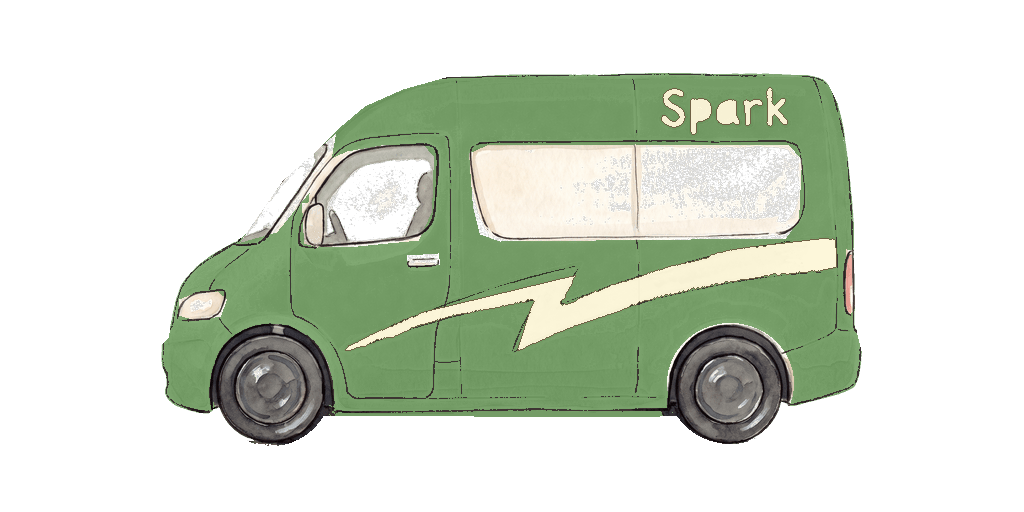
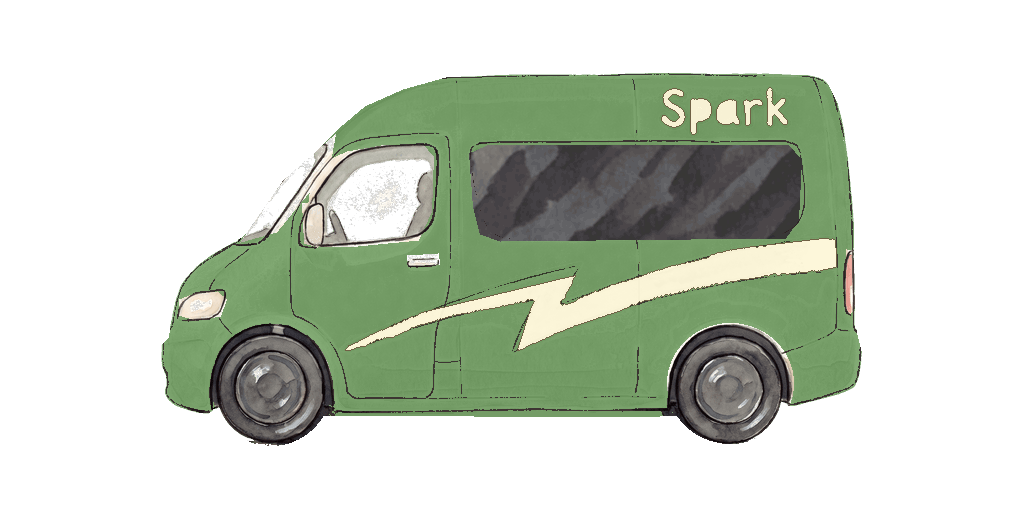
feat(art): glass-rears.py finishes the glass canon, and Spark's tinted portrait is installed
Canon section 4 says the animal space is tinted and the cab is clear. The
portrait and the fronts were brought to it and two rears were left, because the
rears are the camera reference and redraw-fronts.py did not want to alter one in
passing. Glass is not the camera, so they are done now, and nothing moves but
the glass.

Henry's rear doors had two clear teal windows, which are animal space. They are
Spark's rear window now: a cut of it, the left pane from the left half and the
right pane from the right, so the two doors do not carry one reflection twice
(mean colour 74,76,77 against the canon's 69,71,71, none brighter than the
canon's own 140). Spark's rear had a dark windscreen slot at its far end, which
is the cab, so his two ends disagreed; it is clear glass by the function that
cleared his front's windscreen, and the two windscreens are 10 RGB units apart.
Spark's rear window at the other end is the pixels it was.

Both files are 256-colour palettes and Spark's has no pale blue-grey, so
tools/glass-rears.py makes room the way decorate-roof.py does (grow_palette):
near-duplicate shades are merged into their neighbours and the freed slots take
the glass's own colours (16 for Henry's tint, 12 for Spark's glass). Alpha is
byte-identical in both files, the canvases are the same, the box round Henry's
paw-heart differs by 0 pixels and Spark's rear window by 0. Outside the glass 7
pixels on Henry (at most 13 of 255) and 83 on Spark (at most 18) change colour
[…]

Changed region(s): [[0.4375, 0.2812, 0.7812, 0.4688]]

diff --git a/tools/glass-rears.py b/tools/glass-rears.py
@@ -1,0 +1,318 @@
+#!/usr/bin/env python3
+"""glass-rears.py — finish the glass canon on the two rear top-downs: Henry's rear doors tinted, Spark's far windscreen clear.
+
+    python3 tools/glass-rears.py --out /tmp/rears                # both, gated, written to /tmp/rears
+    python3 tools/glass-rears.py --out /tmp/rears --install      # and install each file that passes its gates
+
+Nothing is installed unless `--install` is given. The rears are read from git (`SOURCE_REV`, the commit
+that installed the shortened top-downs), so a second run after installing starts from the originals and
+writes the same bytes. Run it after `redraw-fronts.py --install`: one of its gates compares Spark's two
+windscreens, and the front is read from the installed file.
+
+WHY. `docs/fleet-canon.md` section 4: the animal space is tinted and the cab is clear. `tint-glass.py` and
+`redraw-fronts.py` brought the portraits and the fronts to it and left the two rears alone, because the
+rears are the camera reference (section 3) and a reference is not edited in passing. Glass is not the
+camera: nothing here moves a pixel of the silhouette, and Marcus has approved the section. Two rears
+still disagreed with it, and two of the children's three views of each van disagreed with the third:
+
+    vehicle-topdown-henry-rear   two CLEAR teal windows in the rear doors. That is animal space.
+    vehicle-topdown-spark-rear   a DARK windscreen slot at its far end. That is the cab, which his new front
+                                 draws clear, so his two ends disagreed.
+
+HENRY. The two panes (the teal pieces inside the ink of each window, holes filled) are filled with Spark's
+rear window, which is the one treatment the canon defines: smoked charcoal, neutral, fully opaque, base RGB
+(53, 55, 54) with the diagonal sheen streaks rising to about (102, 102, 103). It is not matched to those
+numbers, it is those pixels: `tint-glass.py` cut a piece of that glass for Spark's portrait and so does
+this, the left pane from the left of it and the right pane from the right, so the two doors do not carry
+one reflection twice. The ink round each window, the door seam and the paw-heart below are not touched.
+
+SPARK. The slot is the one dark piece of the far end, with its ink line and the soft edge of it left as
+drawn, and it is mapped to clear glass by `redraw-fronts.lighten_glass`, the function that cleared his
+front's windscreen, so the two ends have one glass: the pale mottled blue-grey of the windscreens, 138,160,180
+to 196,210,220, with the streaks the generator drew. His rear window, at the other end, is the tinted one the
+canon wants and is not touched.
+
+THE PALETTE. These are 256-colour files and a pale blue-grey is not in Spark's. `decorate-roof.grow_palette`
+makes room in place (the repo's own method for this): the cheapest near-duplicate shades are merged into their
+neighbours and the slots they free take the new glass's colours. Every pixel keeps its alpha exactly, and every
+pixel outside the glass keeps its palette index; the few that had a merged shade (7 on Henry, 83 on Spark, none
+by more than 18 of 255) change by that much. Henry's paw-heart entries are locked so that nothing is merged out of
+them, and so are the shades of Spark's rear window.
+
+GATES, run on every file and `--install` installs nothing that fails:
+  alpha     the file's alpha is byte-identical to the original's: silhouette, width, length, fringe cannot move
+  canvas    the canvas, which `PtvDriveScene` scales by, is the same
+  outside   outside the glass at most 150 pixels change colour, by at most 24 of 255 (a merged near-duplicate)
+  paw       Henry: not one pixel differs in the box round the paw-heart
+  glass     Henry: both panes are the canon's tint (mean within 15 RGB units of (69,71,71), 95th percentile
+            of luma under 125, none brighter than 140, the reference's own) and no teal is left in them;
+            Spark: the slot is one piece of clear glass, as pale as the front's windscreen
+  agree     Spark: the rear's windscreen and the front's are the same glass (mean within 20 RGB units)
+  tail      Spark: the rear window at the other end is the pixels it was
+  livery    the four bands of the audit (0-6, 6-20, 35-55, 75-92% of painted height) within 60 RGB of maroon
+            (142,52,54) / leaf green (116,156,102)
+  file      mode P, <=256 colours, tight crop, opaque body (`install-vehicles.verify`)
+"""
+import argparse
+import importlib.util
+import io
+import os
+import subprocess
+import sys
+import tempfile
+
+import numpy as np
+from PIL import Image
+from scipy.ndimage import binary_dilation, binary_fill_holes, binary_opening, label
+
+ROOT = os.path.abspath(os.path.join(os.path.dirname(os.path.abspath(__file__)), '..'))
+ASSETS = os.path.join(ROOT, 'apps/game/public/assets/driving/topdown')
+ASSETS_REL = 'apps/game/public/assets/driving/topdown'
+SOURCE_REV = 'f4cc906'          # the commit that installed the shortened top-downs, as in redraw-fronts.py
+
+
+def _load_module(name, path):
+    spec = importlib.util.spec_from_file_location(name, path)
+    mod = importlib.util.module_from_spec(spec)
+    spec.loader.exec_module(mod)
+    return mod
+
+
+rf = _load_module('redraw_fronts', os.path.join(ROOT, 'tools', 'redraw-fronts.py'))
+tg = _load_module('tint_glass', os.path.join(ROOT, 'tools', 'tint-glass.py'))
+dr = _load_module('decorate_roof', os.path.join(ROOT, 'tools', 'decorate-roof.py'))
+iv, rc = rf.iv, rf.rc
+
+LIVERY = {'henry': (142, 52, 54), 'spark': (116, 156, 102)}
+LIVERY_MAX = 60
+LUMA = np.array([0.299, 0.587, 0.114])
+
+# Henry's windows: the box that holds both panes (x0, y0, x1, y1). The left pane is cut from the left half of the
+# reference glass and the right pane from the right half, so the two doors do not carry one reflection twice; in its
+# half each takes the piece whose colour is nearest the treatment's own (mean (69,71,71), 95th percentile of luma 106),
+# stepping `step` px, because a cut from the middle is all streak and a cut from an edge is none.
+HENRY = dict(box=(85, 800, 475, 935), min_pane=5000, step=4, p95=106.0)
+# Spark's far-end windscreen: the dark piece through the seed (x, y), found among the dark, un-green, opaque
+# pixels of the rows above `rows`, the way `redraw-fronts.glass_region` finds his front's. His rear window, at the
+# other end, is the rows `tail_rows`.
+SPARK = dict(seed=(320, 130), rows=(0, 400), tail_rows=(640, 860))
+GATE = dict(outside_px=150, outside_step=24, tint_dist=15.0, tint_p95=125, tint_max=140, agree=20.0)
+# The mean colour error the glass's own palette slots may have (`grow_palette` takes the fewest that meet it). The
+# repo's default is 6 of 255, which is made for a motif. The cut of the canon's glass that Henry's panes take has 15
+# distinct colours, so 0 gives it exactly, in 16 slots (it tries 4, 6, 8, 12, 16...); anything looser leaves some of the brighter streak pixels on the
+# nearest teal in the palette, which is a few hundred pixels of teal in a charcoal pane. Spark's clear glass is 12 slots
+# at 1.5 (mean error 0.2 of 255) and 16 at 0.25, which is 100 more pixels shifted in the body for an error already under one.
+PALETTE_ERR = {'henry': 0.0, 'spark': 1.5}
+
+
+# ---------------------------------------------------------------------------------- sources
+
+def load_rear(name):
+    blob = subprocess.run(['git', 'show', f'{SOURCE_REV}:{ASSETS_REL}/vehicle-topdown-{name}-rear.png'],
+                          cwd=ROOT, check=True, capture_output=True).stdout
+    im = Image.open(io.BytesIO(blob))
+    im.load()
+    return im, np.array(im.convert('RGBA'))
+
+
+def installed_rgba(stem):
+    return np.array(Image.open(os.path.join(ASSETS, stem + '.png')).convert('RGBA'))
+
+
+# ---------------------------------------------------------------------------------- Henry
+
+def henry_panes(rgba):
+    """The two window panes of Henry's rear doors, left then right: the teal pieces inside each window's ink
+    (anything greener than it is red, which the maroon and the ink are not), holes filled."""
+    r, g, a = [rgba[..., i].astype(int) for i in (0, 1, 3)]
+    x0, y0, x1, y1 = HENRY['box']
+    box = np.zeros(a.shape, bool)
+    box[y0:y1, x0:x1] = True
+    lab, n = label((g > r) & (a > 200) & box)
+    sizes = [int((lab == i).sum()) for i in range(1, n + 1)]
+    big = [i + 1 for i, s in enumerate(sizes) if s >= HENRY['min_pane']]
+    assert len(big) == 2, f'expected two panes of at least {HENRY["min_pane"]} px, found sizes {sorted(sizes)[-4:]}'
+    panes = [binary_fill_holes(lab == i) for i in big]
+    panes.sort(key=lambda m: int(np.nonzero(m)[1].min()))
+    return panes
+
+
+def tint_henry(rgba):
+    """New RGB for Henry's panes: pieces of Spark's rear window, the canon's one tint. -> (new rgba, mask)."""
+    ref = np.array(tg.load_git(tg.TOPDOWN_REL, tg.REFERENCE['stem']).convert('RGBA'))
+    r0, r1 = tg.REFERENCE['rows']
+    c0, c1 = tg.REFERENCE['cols']
+    cx = (c0 + c1) // 2
+    new = rgba.copy()
+    panes = henry_panes(rgba)
+    for pane, half in zip(panes, ((c0, cx), (cx, c1))):
+        ys, xs = np.nonzero(pane)
+        y0, y1, x0, x1 = ys.min(), ys.max() + 1, xs.min(), xs.max() + 1
+        h, w = y1 - y0, x1 - x0
+        m = pane[y0:y1, x0:x1]
+        assert h <= r1 - r0 and w <= half[1] - half[0], 'the pane is bigger than the glass it is cut from'
+        best = None
+        for ty in range(r0, r1 - h + 1, HENRY['step']):
+            for tx in range(half[0], half[1] - w + 1, HENRY['step']):
+                px = ref[ty:ty + h, tx:tx + w, :3][m].astype(float)
+                score = float(np.linalg.norm(px.mean(0) - tg.TINT_MEAN)) + 0.5 * abs(float(np.percentile(px @ LUMA, 95)) - HENRY['p95'])
+                score += 100.0 * int((px[:, 1] > px[:, 0] + 12).sum())      # a pixel of Spark's body at the edge of the glass
+                if best is None or score < best[0]:
+                    best = (score, ty, tx)
+        _, ty, tx = best
+        sub = new[y0:y1, x0:x1, :3]
+        sub[m] = ref[ty:ty + h, tx:tx + w, :3][m]
+    return new, panes[0] | panes[1]
+
+
+# ---------------------------------------------------------------------------------- Spark
+
+def spark_slot(rgba):
+    """The windscreen slot at Spark's far end: the dark, un-green, opaque piece through the seed, holes filled."""
+    r, g, a = [rgba[..., i].astype(int) for i in (0, 1, 3)]
+    luma = rgba[..., :3].astype(float) @ LUMA
+    dark = (luma < 135) & (g - r < 25) & (a > 200)
+    sel = np.zeros(dark.shape, bool)
+    sel[SPARK['rows'][0]:SPARK['rows'][1]] = True
+    lab, _ = label(binary_opening(dark & sel, structure=np.ones((3, 3))))
+    sx, sy = SPARK['seed']
+    assert lab[sy, sx] > 0, 'the seed is not in the windscreen slot'
+    return binary_fill_holes(lab == lab[sy, sx]), luma
+
+
+def clear_spark(rgba):
+    mask, luma = spark_slot(rgba)
+    return rf.lighten_glass(rgba, mask, luma), mask
+
+
+# ---------------------------------------------------------------------------------- build and gates
+
+def build(name):
+    im, rgba = load_rear(name)
+    new, mask = tint_henry(rgba) if name == 'henry' else clear_spark(rgba)
+    protect = None
+    if name == 'henry':
+        pm = dr.paw_pixels(rgba)
+        assert pm.any(), 'no paw-heart found'
+        lab, n = label(binary_dilation(pm, iterations=2))
+        big = lab == (int(np.argmax([(lab == i).sum() for i in range(1, n + 1)])) + 1)
+        ys, xs = np.nonzero(big & pm)
+        protect = np.zeros(pm.shape, bool)
+        protect[max(0, ys.min() - 6):ys.max() + 7, max(0, xs.min() - 6):xs.max() + 7] = True
+    if name == 'spark':
+        # his rear window is the canon's own glass and is not to be touched: its shades are never merged away
+        protect = np.zeros(mask.shape, bool)
+        protect[SPARK['tail_rows'][0]:SPARK['tail_rows'][1]] = True
+    out, stats = dr.grow_palette(im, new, protect=protect, err_limit=PALETTE_ERR[name])
+    return im, rgba, new, mask, protect, out, stats
+
+
+def band_distances(rgba, name):
+    want = np.array(LIVERY[name], float)
+    return [float(np.linalg.norm(b['dominant'] - want)) for b in rc.band_colours(rgba)]
+
+
+def pale_glass(rgba, rows):
+    r, b, a = [rgba[..., i].astype(int) for i in (0, 2, 3)]
+    pale = (b > r + 8) & (a > 200) & (b > 120)
+    sel = np.zeros(pale.shape, bool)
+    sel[rows[0]:rows[1]] = True
+    return pale & sel
+
+
+def gates(name, src, mask, protect, stats, path):
+    out = np.array(Image.open(path).convert('RGBA'))
+    res = []
+    same_alpha = bool((out[..., 3] == src[..., 3]).all())
+    res.append(('alpha', same_alpha, f'{int((out[..., 3] != src[..., 3]).sum())} of {int((src[..., 3] > 0).sum())} visible pixels differ in alpha: silhouette, length and fringe are the original\'s'))
+    res.append(('canvas', Image.open(path).size == (src.shape[1], src.shape[0]), f'canvas {src.shape[1]}x{src.shape[0]} (what PtvDriveScene scales by)'))
+    changed = (out[..., :3] != src[..., :3]).any(-1)
+    near = binary_dilation(mask, iterations=2)
+    step = np.abs(out[..., :3].astype(int) - src[..., :3].astype(int)).max(-1)
+    far = changed & ~near
+    res.append(('outside', int(far.sum()) <= GATE['outside_px'] and (int(step[far].max()) if far.any() else 0) <= GATE['outside_step'],
+                f'{int(far.sum())} pixels outside the glass change colour (a merged near-duplicate shade), the largest by '
+                f'{int(step[far].max()) if far.any() else 0} of 255; palette: {stats["merged"]} merged, {stats["slots"]} slots for the glass, '
+                f'glass colour error {stats["motif_err"]:.2f} of 255'))
+    luma = out[..., :3].astype(float) @ LUMA
+    if name == 'henry':
+        ys, xs = np.nonzero(protect)
+        box = (slice(ys.min(), ys.max() + 1), slice(xs.min(), xs.max() + 1))
+        d = int((out[box] != src[box]).any(-1).sum())
+        res.append(('paw', d == 0, f'{d} pixels differ in the box round the paw-heart (rows {ys.min()}-{ys.max()}, columns {xs.min()}-{xs.max()})'))
+        lm = luma[mask]
+        mean = out[..., :3][mask].astype(float).mean(0)
+        dist = float(np.linalg.norm(mean - tg.TINT_MEAN))
+        p95, mx = float(np.percentile(lm, 95)), float(lm.max())
+        r, b, a = [out[..., i].astype(int) for i in (0, 2, 3)]
+        teal = int((((b > r + 8) & (a > 200))[mask]).sum())
+        res.append(('glass', dist <= GATE['tint_dist'] and p95 < GATE['tint_p95'] and mx <= GATE['tint_max'] and teal == 0,
+                    f'both panes: mean colour {tuple(int(round(v)) for v in mean)}, {dist:.1f} RGB units from the canon tint {tuple(int(v) for v in tg.TINT_MEAN)}; '
+                    f'luma median {np.median(lm):.0f}, 95th percentile {p95:.0f}, brightest {mx:.0f} (limits {GATE["tint_p95"]}, {GATE["tint_max"]}); {teal} teal pixels left'))
+    else:
+        # the pale pieces round the slot: the windscreen, and nothing else of the far end (the mirrors are white and
+        # lie outside the slot's own box)
+        ys, xs = np.nonzero(mask)
+        zone = np.zeros(mask.shape, bool)
+        zone[max(0, ys.min() - 8):ys.max() + 9, max(0, xs.min() - 8):xs.max() + 9] = True
+        pale = pale_glass(out, (0, out.shape[0])) & zone
+        lab, n = label(pale)
+        pieces = [int((lab == i).sum()) for i in range(1, n + 1) if (lab == i).sum() >= 400]
+        med = float(np.median(luma[pale])) if pale.any() else 0.0
+        res.append(('glass', len(pieces) == 1 and med >= 140,
+                    f'{len(pieces)} piece of clear glass at the far end ({pieces[0] if pieces else 0} px), median luma {med:.0f} (a windscreen is 140 or more)'))
+        front = installed_rgba('vehicle-topdown-spark')
+        fpale = pale_glass(front, SPARK['tail_rows'])
+        fmean = front[..., :3][fpale].astype(float).mean(0)
+        rmean = out[..., :3][pale].astype(float).mean(0)
+        dist = float(np.linalg.norm(fmean - rmean))
+        res.append(('agree', dist <= GATE['agree'],
+                    f'rear windscreen mean colour {tuple(int(round(v)) for v in rmean)}, the front\'s {tuple(int(round(v)) for v in fmean)}: {dist:.1f} RGB units apart (limit {GATE["agree"]:.0f})'))
+        t0, t1 = SPARK['tail_rows']
+        d = int((out[t0:t1] != src[t0:t1]).any(-1).sum())
+        res.append(('tail', d == 0, f'{d} pixels differ in rows {t0}-{t1}, which hold the rear window'))
+    dist = band_distances(out, name)
+    res.append(('livery', max(dist) <= LIVERY_MAX, 'bands 0-6/6-20/35-55/75-92: ' + ' '.join(f'{v:.1f}' for v in dist) +
+                f' RGB units from {LIVERY[name]} (limit {LIVERY_MAX}); was ' + ' '.join(f'{v:.1f}' for v in band_distances(src, name))))
+    problems = iv.verify(path, Image.open(path).size)
+    res.append(('file', not problems, 'mode P, <=256 colours, tight crop, opaque body' if not problems else '; '.join(problems)))
+    return res
+
+
+# ---------------------------------------------------------------------------------- main
+
+def main():
+    ap = argparse.ArgumentParser(description=__doc__.split('\n')[0])
+    ap.add_argument('--out', help='where the files are written (default: a temp dir)')
+    ap.add_argument('--only', help='only the stems that contain this')
+    ap.add_argument('--install', action='store_true', help='copy each file that passes its gates over the one in assets/')
+    args = ap.parse_args()
+    out_dir = args.out or tempfile.mkdtemp(prefix='glass-rears-')
+    os.makedirs(out_dir, exist_ok=True)
+    failed = []
+    for name in ('henry', 'spark'):
+        if args.only and args.only not in name:
+            continue
+        print(f'{name}-rear')
+        im, src, new, mask, protect, out, stats = build(name)
+        path = os.path.join(out_dir, f'vehicle-topdown-{name}-rear.png')
+        out.save(path, optimize=True)
+        results = gates(name, src, mask, protect, stats, path)
+        for gname, ok, detail in results:
+            print(f'    [{"pass" if ok else "FAIL"}] {gname:8s} {detail}')
+        if all(ok for _, ok, _ in results):
+            if args.install:
+                with open(path, 'rb') as fh:
+                    data = fh.read()
+                with open(os.path.join(ASSETS, f'vehicle-topdown-{name}-rear.png'), 'wb') as fh:
+                    fh.write(data)
+                print(f'    installed vehicle-topdown-{name}-rear.png ({src.shape[1]}x{src.shape[0]})')
+        else:
+            failed.append(name)
+            print('    NOT installed')
+    print('written to', out_dir)
+    sys.exit(1 if failed else 0)
+
+
+if __name__ == '__main__':
+    main()

diff --git a/tools/redraw-fronts.py b/tools/redraw-fronts.py
@@ -74,7 +74,8 @@ WHAT IT LEAVES.
     and Spark `x 0.165, w 0.670`. Not changed here: it is a decision about the loading screen.
   * `vehicle-topdown-spark-rear.png`'s far end carries a DARK windscreen slot, and `vehicle-topdown-henry-rear.png`'s
     two rear-door windows are CLEAR teal: both disagree with canon section 4 and neither is touched, because the
-    rears are the reference. The front windscreen is clear, so on Spark the two ends now differ.
+    rears are the reference. The front windscreen is clear, so on Spark the two ends now differ. (Finished by
+    `tools/glass-rears.py`, which changes the glass and nothing else in either file.)
   * Bea's rear shows the front tyres at its far end; her new front shows no rear tyres at its own. Her old front
     did not either, and Spark's does.
   * `decorate-roof.py` finds the roof on the sprite it is given, and the new fronts have longer roofs (Bea's 739
